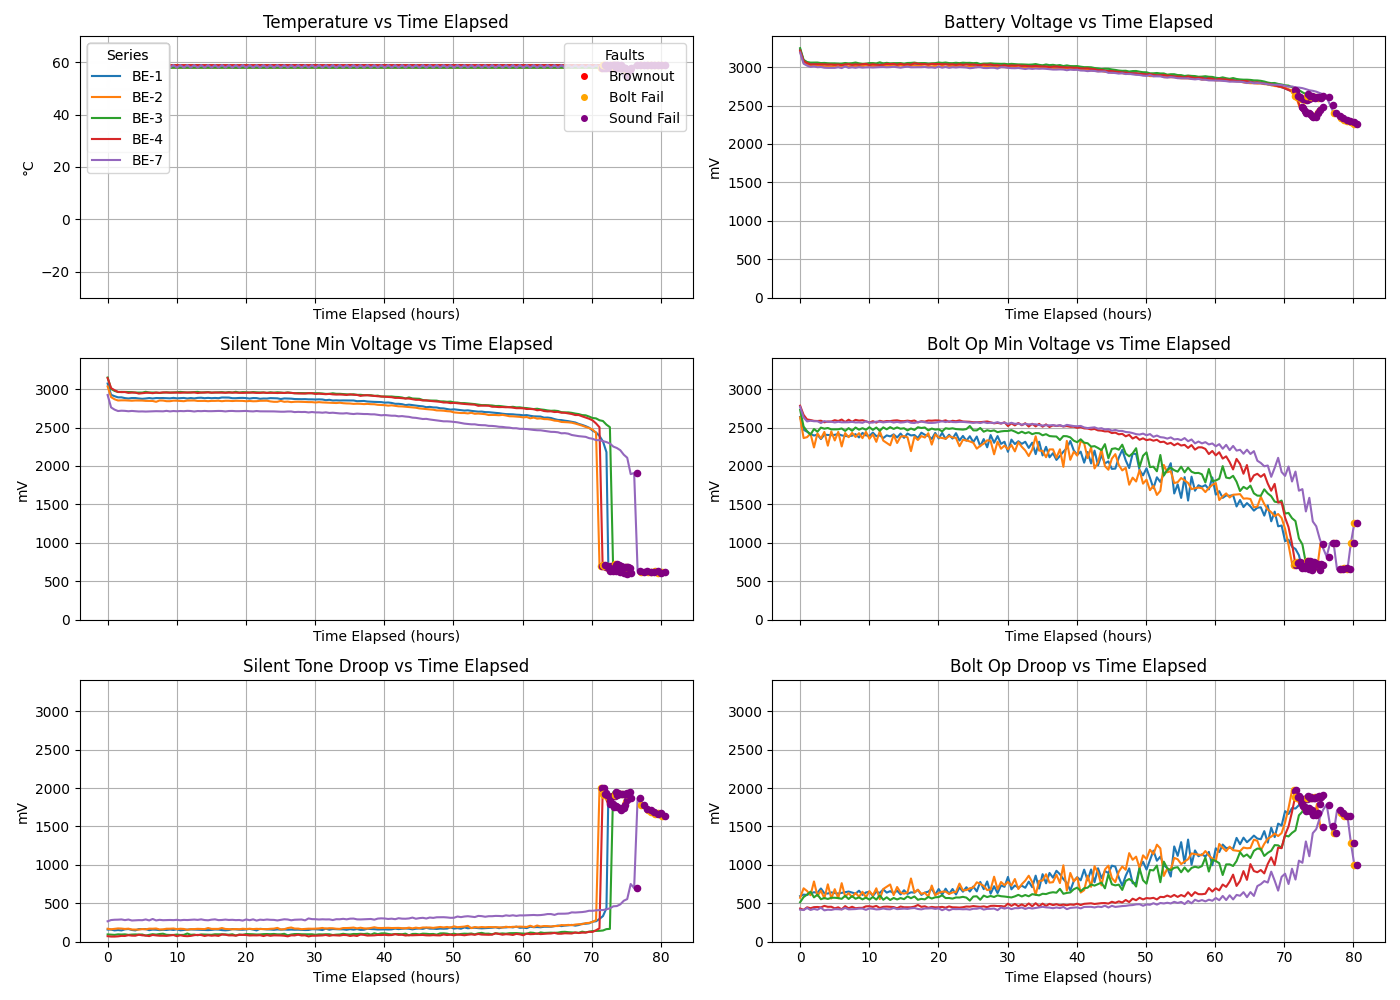
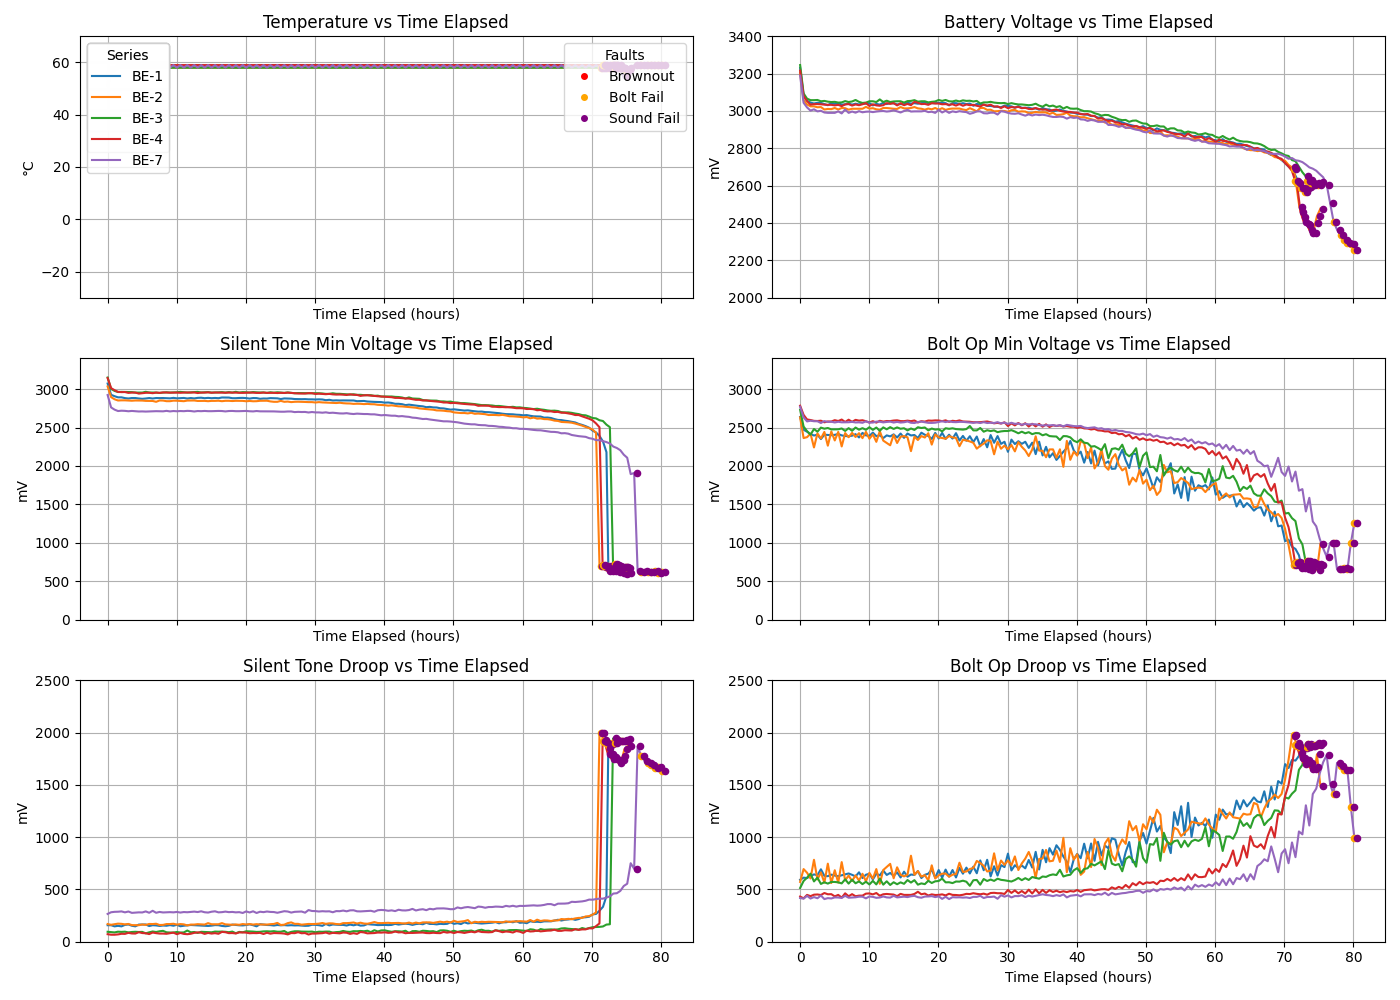
udpate axes of all

diff --git a/plot_all.py b/plot_all.py
@@ -91,6 +91,10 @@ for csv_path in csv_files:
 
         if col == "temp":
             ax.set_ylim(-30, 70)
+        elif col == "batt_mV":
+            ax.set_ylim(2000, 3400)
+        elif col == "soundDroopMag_mV" or col == "boltDroopMag_mV":
+            ax.set_ylim(0, 2500)
         else:
             ax.set_ylim(0, 3400)
 
